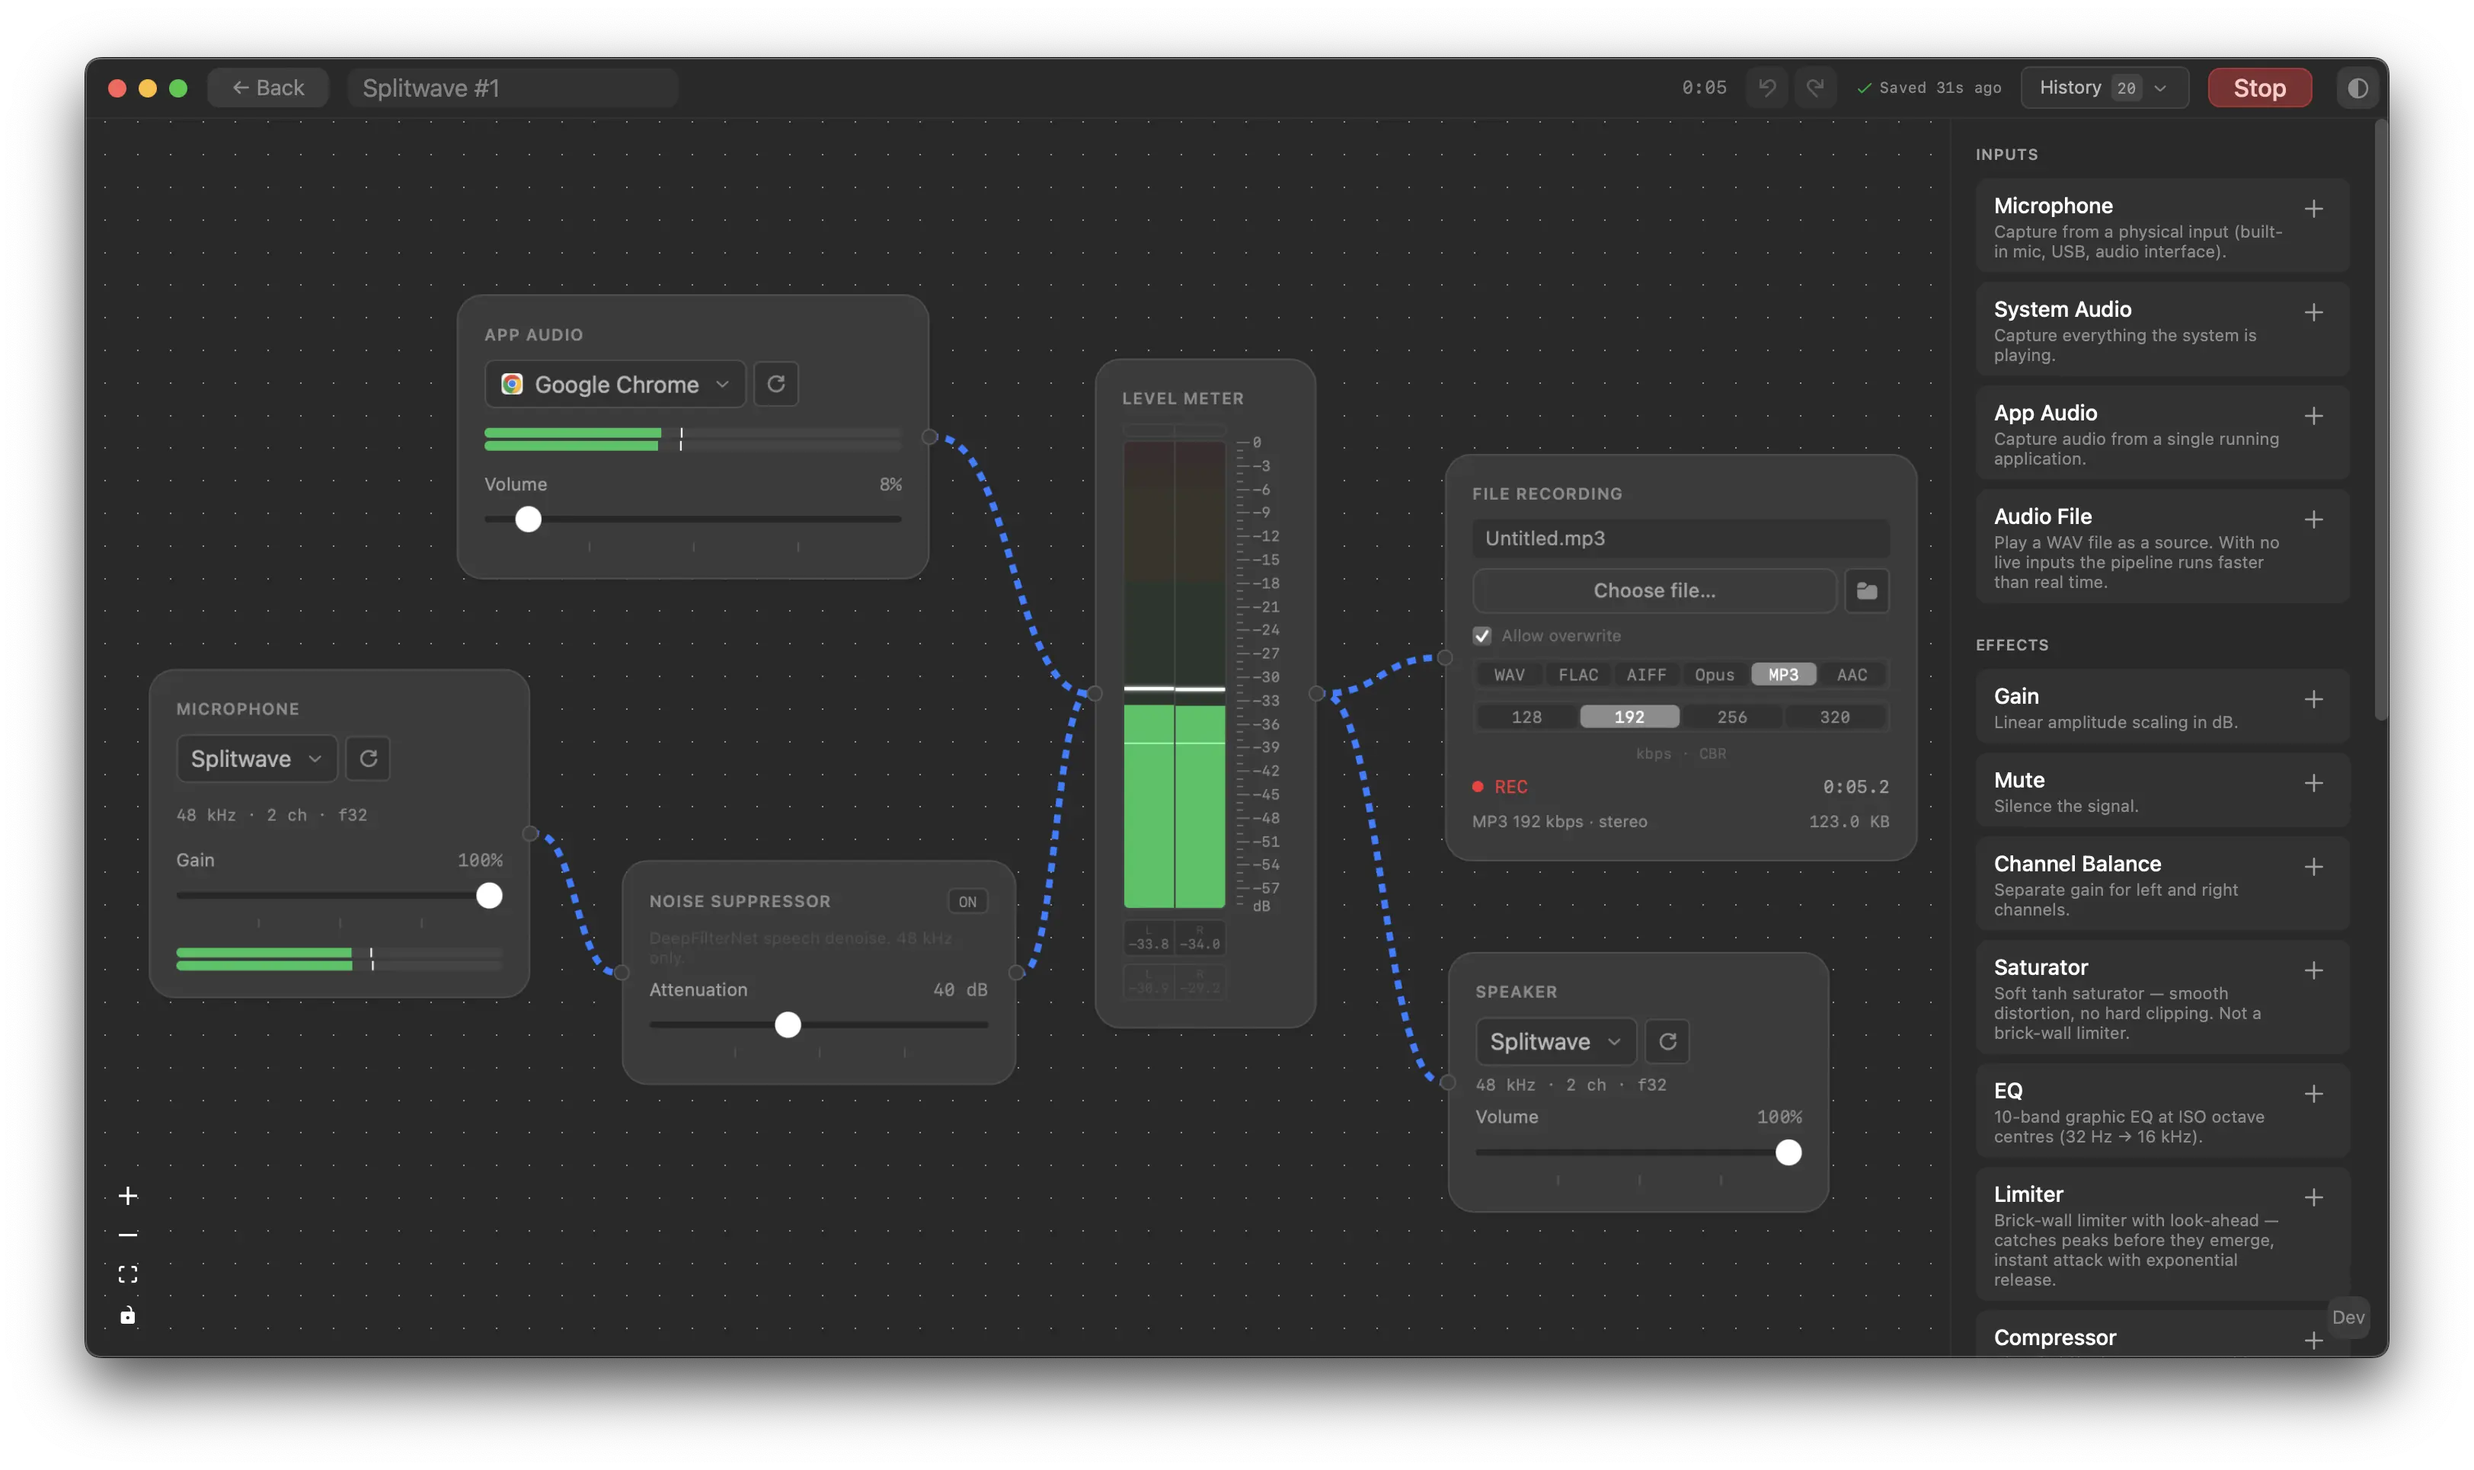
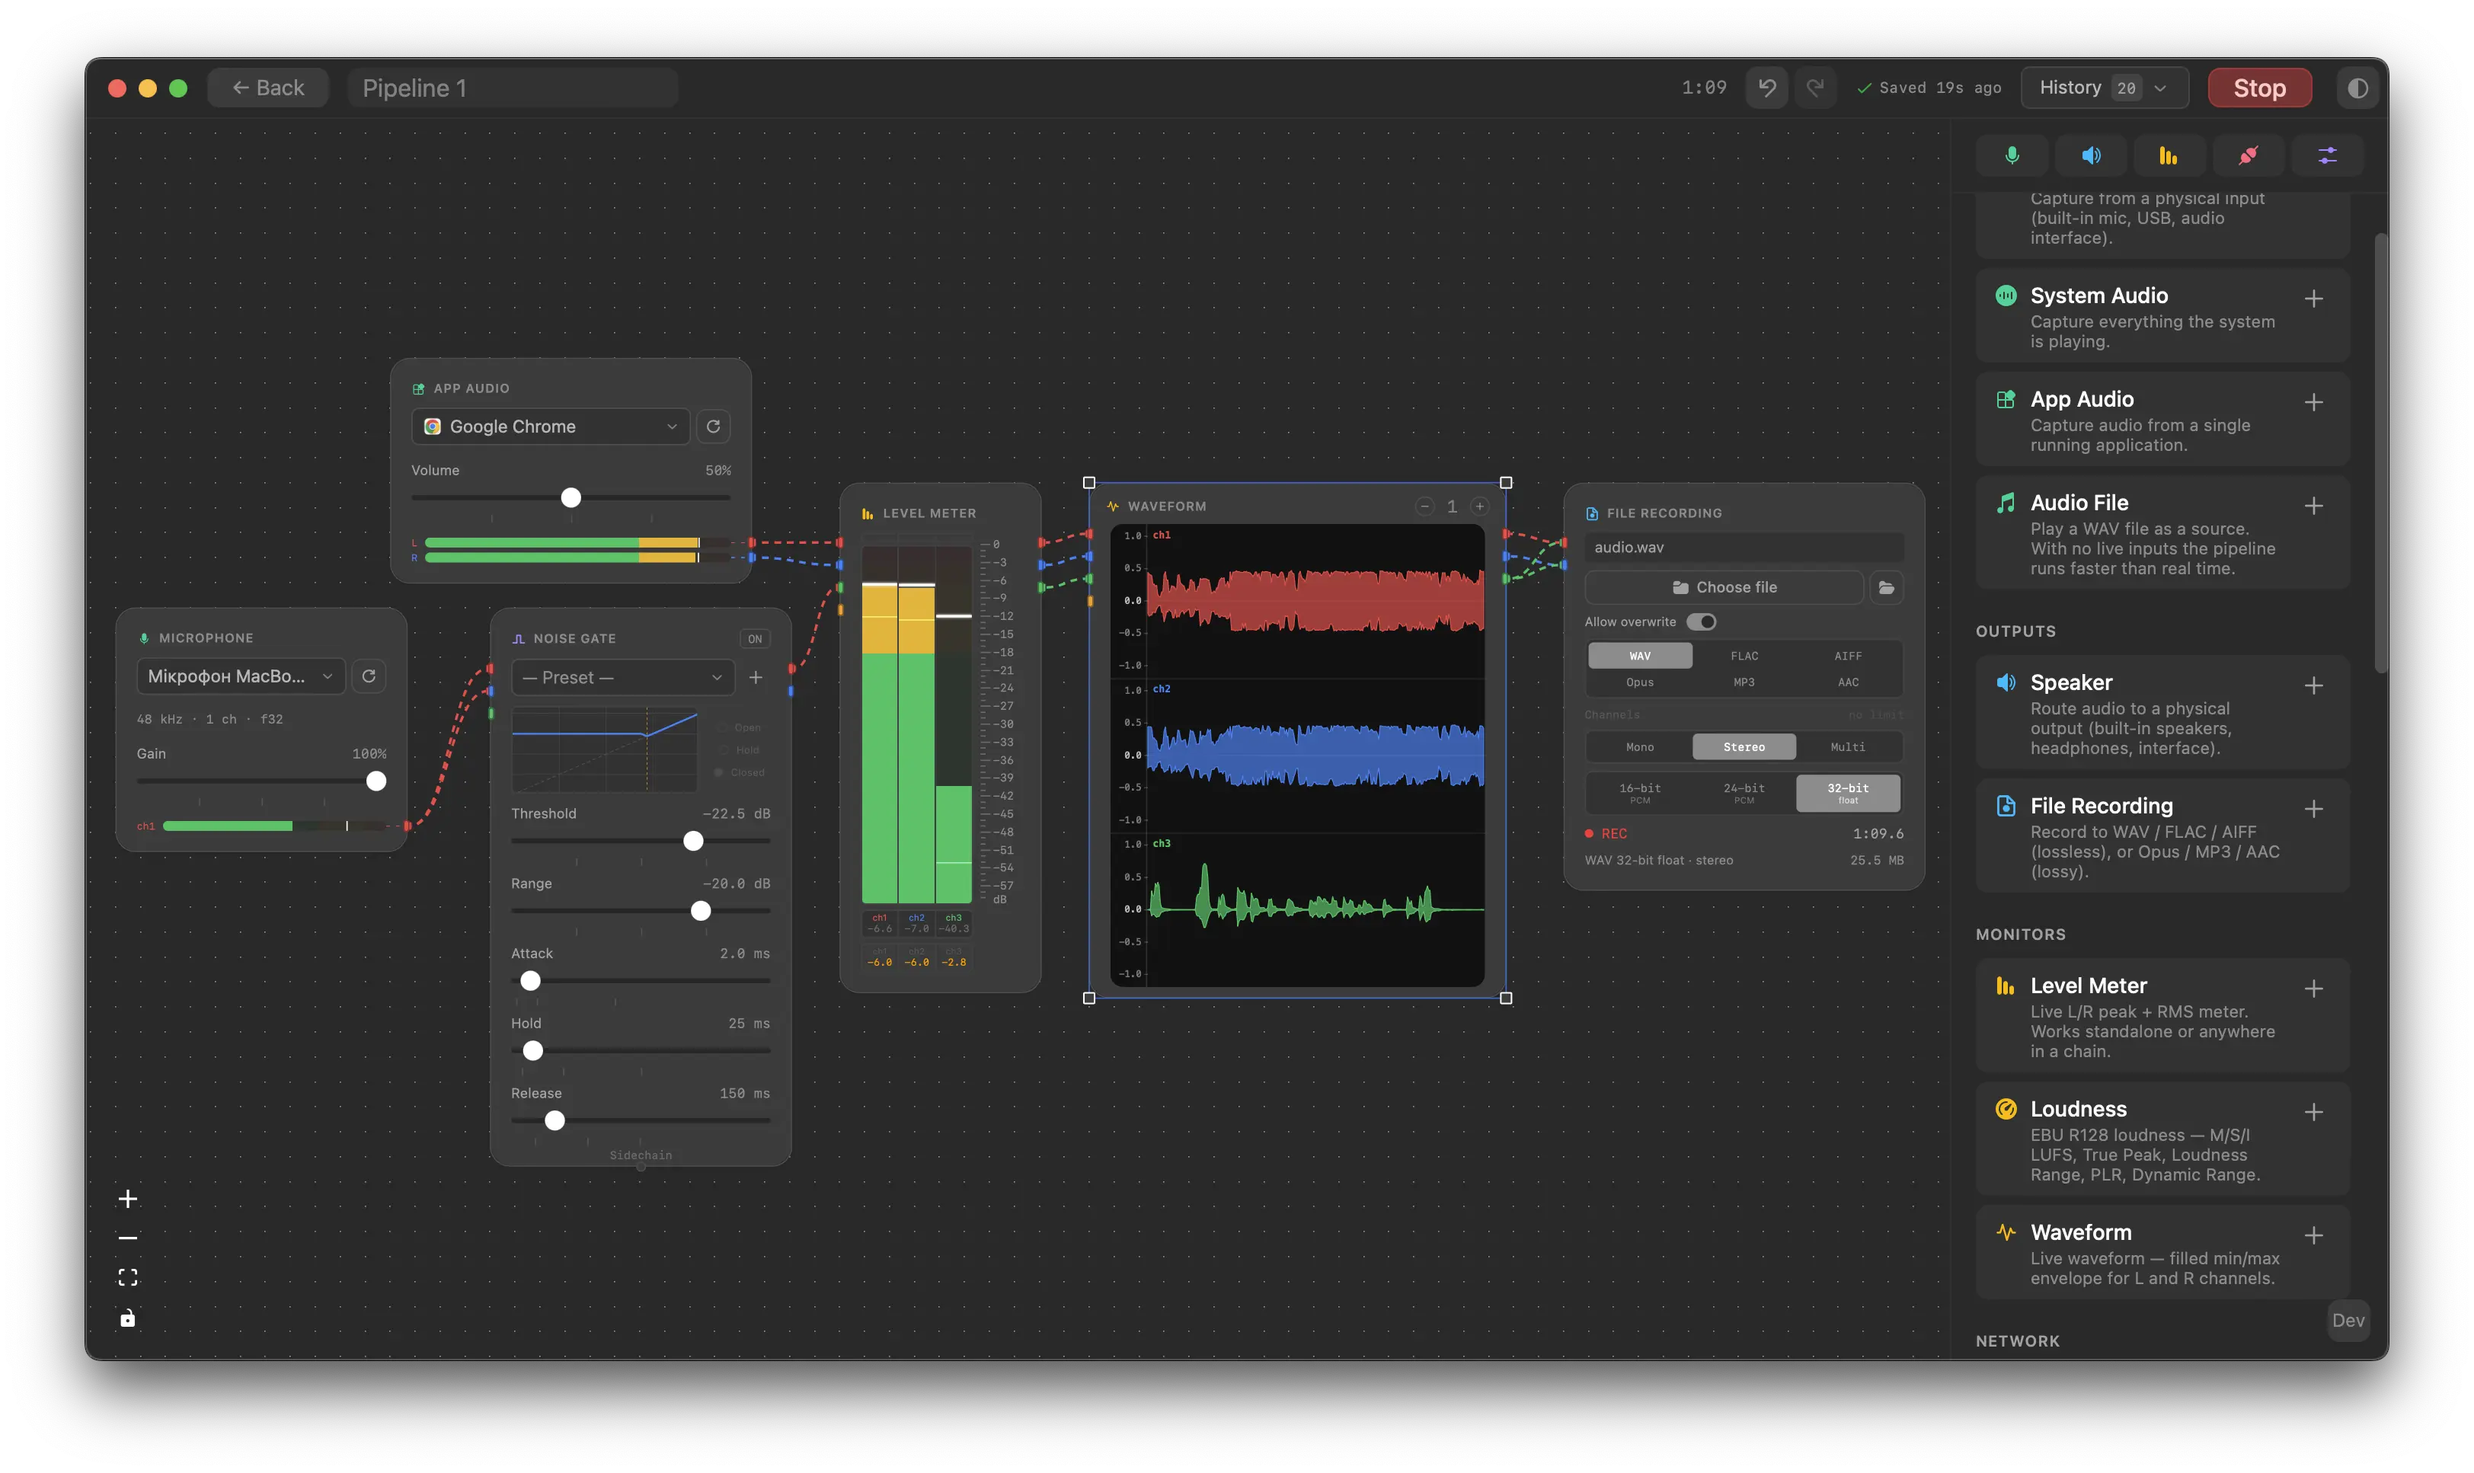
fix(flow): render node previews without a flow canvas

diff --git a/src/lib/modules/flow/ui/_handle.svelte b/src/lib/modules/flow/ui/_handle.svelte
@@ -1,0 +1,39 @@
+<script lang="ts">
+	import { getContext, type Snippet } from 'svelte';
+	import { Handle, type Position } from '@xyflow/svelte';
+	import type { ClassValue } from 'svelte/elements';
+	import { PREVIEW_CTX } from '$lib/modules/flow/utils';
+
+	interface Props {
+		type: 'source' | 'target';
+		position: Position;
+		id?: string;
+		class?: ClassValue;
+		style?: string;
+		children?: Snippet;
+	}
+	let { type, position, id, class: klass, style, children }: Props = $props();
+
+	const isPreview = getContext(PREVIEW_CTX) === true;
+
+	// xyflow positions handles through the node context; standalone we place them
+	// against the wrapper the call site already made relative.
+	const PLACEMENT: Record<Position, string> = {
+		left: '-left-1 top-1/2 -translate-y-1/2',
+		right: '-right-1 top-1/2 -translate-y-1/2',
+		top: '-top-1 left-1/2 -translate-x-1/2',
+		bottom: '-bottom-1 left-1/2 -translate-x-1/2'
+	};
+</script>
+
+{#if isPreview}
+	<!-- Handle throws outside a Custom Node component, which the preview grid
+	     cannot provide: it renders node components without a flow canvas. -->
+	<div class={['absolute', PLACEMENT[position], klass]} {style}>
+		{@render children?.()}
+	</div>
+{:else}
+	<Handle {type} {id} {position} class={klass} {style}>
+		{@render children?.()}
+	</Handle>
+{/if}

diff --git a/src/lib/modules/flow/ui/input/_input_meter.svelte b/src/lib/modules/flow/ui/input/_input_meter.svelte
@@ -1,7 +1,8 @@
 <script lang="ts">
 	import { listen, type UnlistenFn } from '@tauri-apps/api/event';
 	import { onDestroy, onMount } from 'svelte';
-	import { Handle, Position } from '@xyflow/svelte';
+	import { Position } from '@xyflow/svelte';
+	import Handle from '../_handle.svelte';
 	import { channelColor, channelLabel, handleEdgeStyle } from '$lib/modules/flow/utils';
 	import { channelSelection } from '$lib/modules/flow/stores.svelte';
 	import MeterBar from '$lib/components/meter_bar.svelte';

diff --git a/src/lib/modules/flow/ui/_channel_handles.svelte b/src/lib/modules/flow/ui/_channel_handles.svelte
@@ -1,6 +1,7 @@
 <script lang="ts">
 	import { untrack } from 'svelte';
-	import { Handle, Position, useNodeConnections, useUpdateNodeInternals } from '@xyflow/svelte';
+	import { Position, useNodeConnections, useUpdateNodeInternals } from '@xyflow/svelte';
+	import Handle from './_handle.svelte';
 	import { channelColor, deriveSlots, handleEdgeStyle } from '$lib/modules/flow/utils';
 	import { channelCaps, channelSelection } from '$lib/modules/flow/stores.svelte';
 

diff --git a/src/lib/modules/flow/ui/effect/webrtc_collaborator.svelte b/src/lib/modules/flow/ui/effect/webrtc_collaborator.svelte
@@ -3,11 +3,11 @@
 	import {
 		useNodeConnections,
 		useSvelteFlow,
-		Handle,
 		Position,
 		type Node,
 		type NodeProps
 	} from '@xyflow/svelte';
+	import Handle from '../_handle.svelte';
 	import type { WebRtcCollaboratorNodeData } from '$lib/modules/pipeline/types';
 	import type { OpusApplication, NetCodec } from '$lib/modules/pipeline/types';
 	import { methods as audioMethods } from '$lib/modules/audio/methods';

diff --git a/src/lib/modules/flow/ui/input/net_receiver.svelte b/src/lib/modules/flow/ui/input/net_receiver.svelte
@@ -3,11 +3,11 @@
 	import {
 		useNodeConnections,
 		useSvelteFlow,
-		Handle,
 		Position,
 		type Node,
 		type NodeProps
 	} from '@xyflow/svelte';
+	import Handle from '../_handle.svelte';
 	import type { NetReceiverNodeData } from '$lib/modules/pipeline/types';
 	import { methods as audioMethods } from '$lib/modules/audio/methods';
 	import SignalBars from '$lib/components/signal_bars.svelte';
